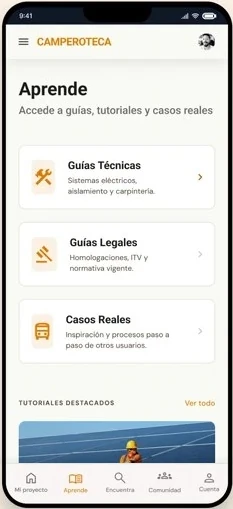
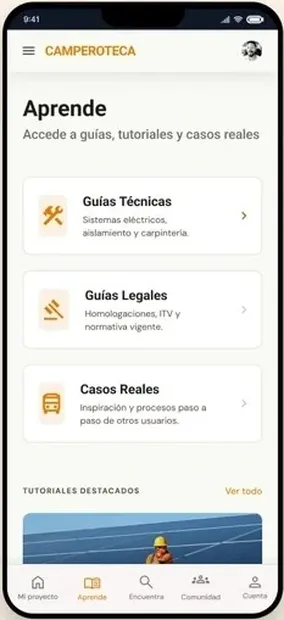
fix(camperoteca): normalize all screen assets to 284×620 px
Resize screen-onboarding, screen-aprende and screen-encuentra to match
the 284×620 dimensions of the other screens. All screens now share the
same intrinsic size so width:100% height:auto renders them uniformly.

Claude-Session: https://claude.ai/code/session_01CQa4xash6mYWYEY8mbbWkX

diff --git a/app/[lang]/work/camperoteca/page.tsx b/app/[lang]/work/camperoteca/page.tsx
@@ -938,15 +938,18 @@ export default async function CamperotecaPage({ params }: Props) {
                     marginBottom: "1.25rem",
                   }}
                 >
-                  <div style={{ width: "min(180px, 48vw)", height: "min(393px, 104.8vw)", position: "relative", overflow: "hidden", borderRadius: "22px", boxShadow: "0 6px 24px rgba(0,0,0,0.1)", flexShrink: 0 }}>
+                  <div style={{ width: "min(180px, 48vw)" }}>
                     <Image
                       src={src}
                       alt={alt}
-                      fill
+                      width={284}
+                      height={620}
                       style={{
-                        objectFit: "cover",
-                        objectPosition: "top center",
+                        width: "100%",
+                        height: "auto",
                         display: "block",
+                        borderRadius: "22px",
+                        boxShadow: "0 6px 24px rgba(0,0,0,0.1)",
                       }}
                     />
                   </div>
